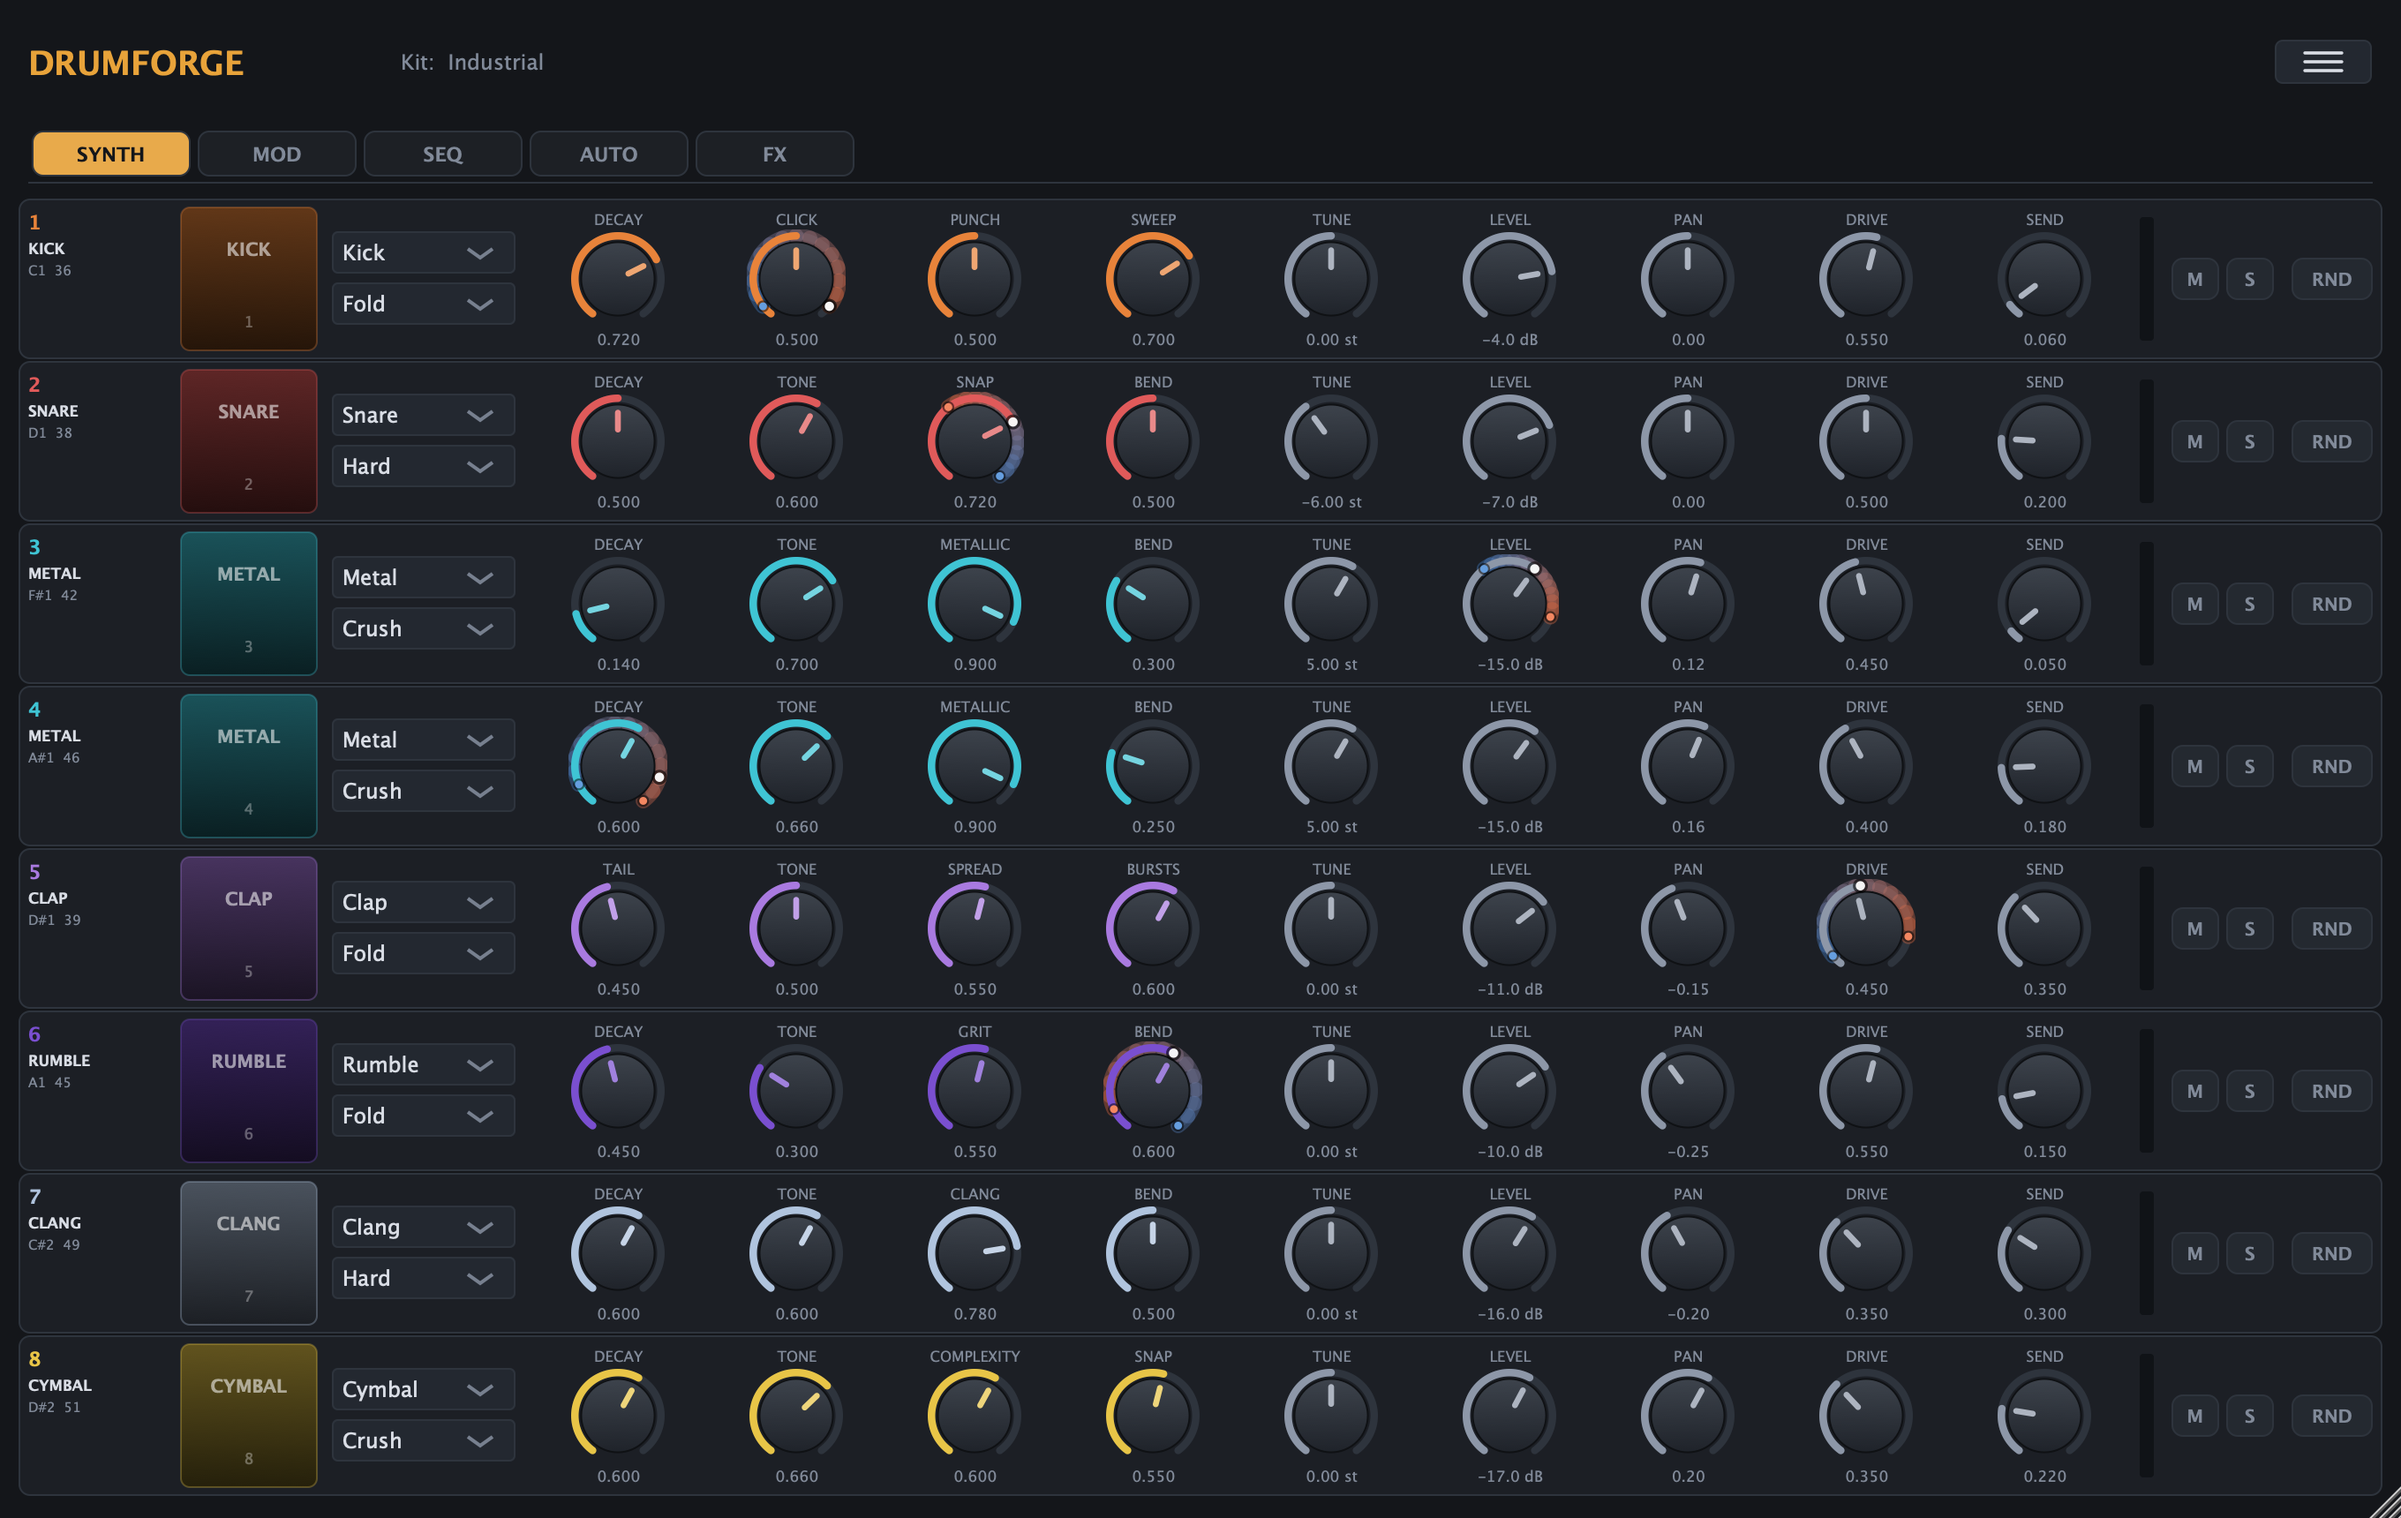
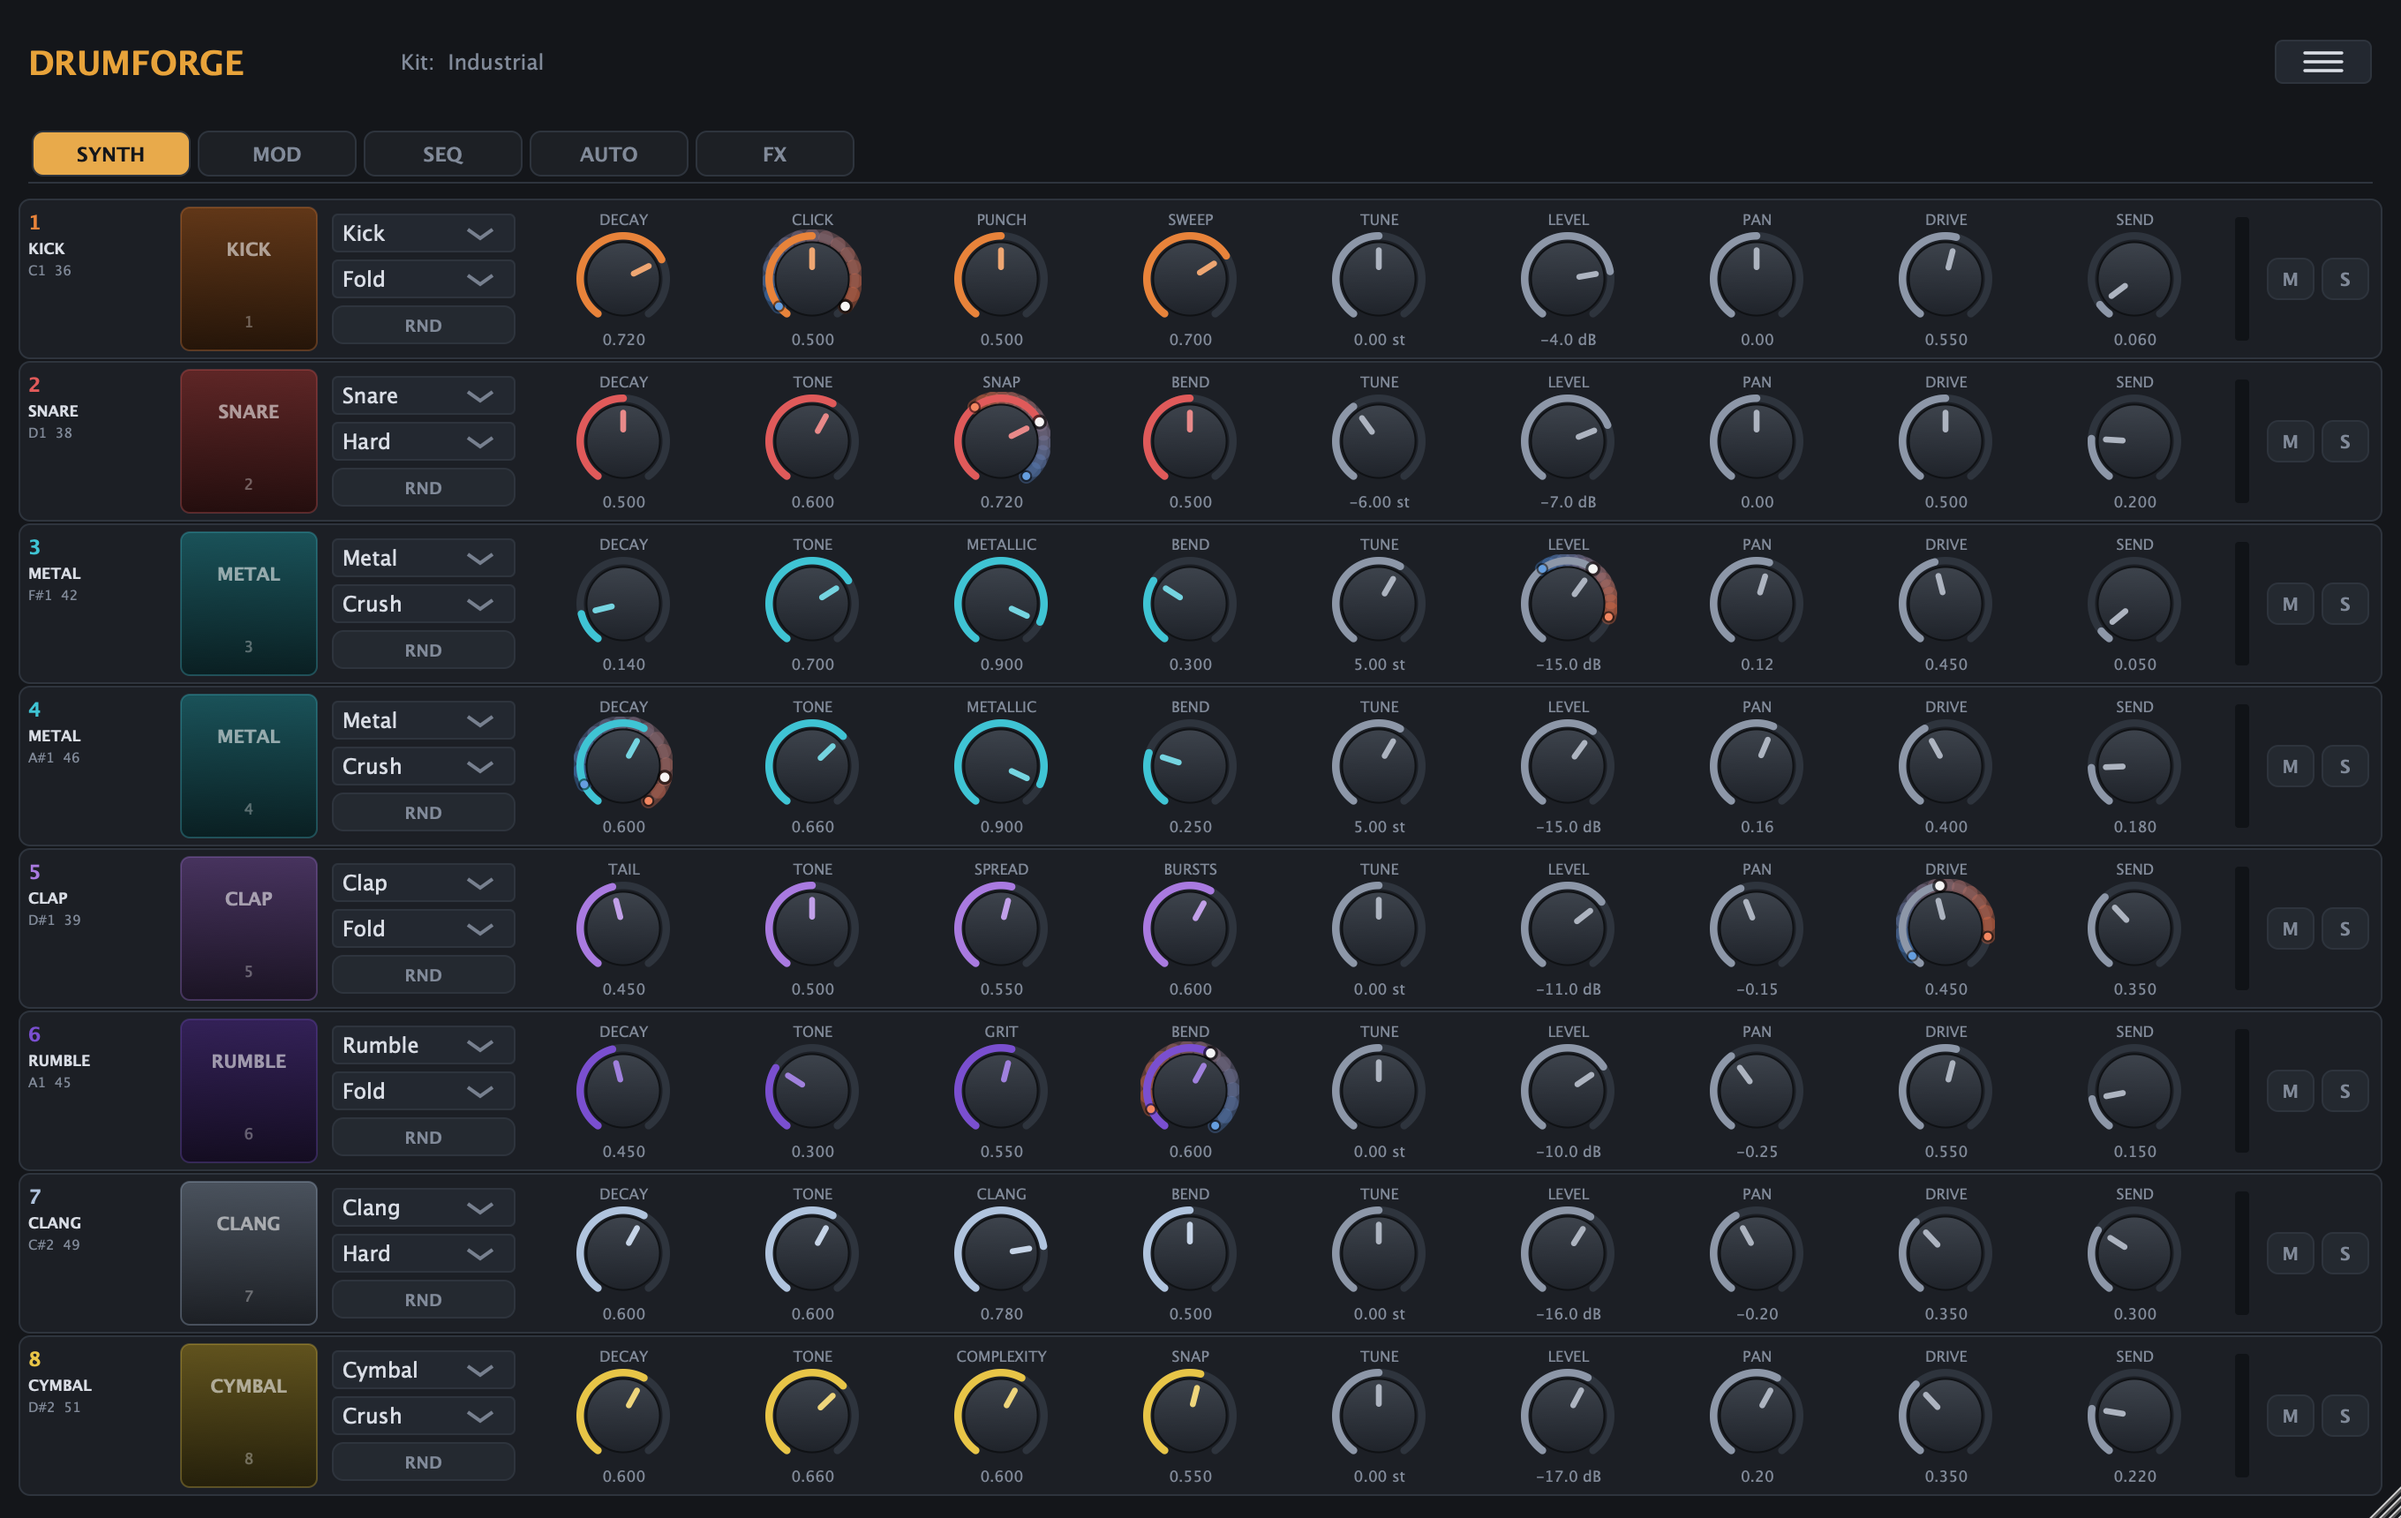
Fix the stepper's clipping, label the amount, align the tabs, move RND
The step count ran underneath the +/- buttons. The number was centred in the whole
area right of the caption, but the buttons are child components drawn on top of
it, so a two-digit value slid under them. Their width now comes out of the area
before the value is centred, which fixes it at any width and for any count.

The field beside an automation lane was an amount, and nothing said so. It has a
caption now.

The parameter tabs ran the full width of the row while the envelope they control
started further right, so the two did not read as one column. The tabs now take
the envelope's horizontal extent.

RND moved from the end of the SYNTH row to the column holding the engine and
distortion selectors. It rolls the machine those two choose, so it belongs with
them rather than a row's-width away.

491 checks.

diff --git a/Source/UI/SequencerLane.cpp b/Source/UI/SequencerLane.cpp
@@ -69,9 +69,13 @@ void ValueStepper::paint (juce::Graphics& g)
     g.drawText (caption, area.removeFromLeft (38).reduced (5, 0),
                 juce::Justification::centredLeft, false);
 
+    // The two buttons are children drawn on top, so their width has to come out of the area
+    // the number is centred in. Otherwise a three-digit count runs underneath them.
+    area.removeFromRight (2 * 18);
+
     g.setColour (theme::text);
     g.setFont (theme::font (11.0f, juce::Font::bold));
-    g.drawText (juce::String (value), area.reduced (2, 0), juce::Justification::centred, false);
+    g.drawText (juce::String (value), area, juce::Justification::centred, false);
 }
 
 //==============================================================================
@@ -402,7 +406,7 @@ AutomationLaneComponent::AutomationLaneComponent (DrumKitProcessor& owner, int i
         speedBox.addItem (laneSpeedName ((LaneSpeed) i), i + 1);
 
     amountSlider.setSliderStyle (juce::Slider::LinearBar);
-    amountSlider.setTextBoxStyle (juce::Slider::TextBoxAbove, false, 56, 14);
+    amountSlider.setTextBoxStyle (juce::Slider::TextBoxAbove, false, 56, 13);
     amountSlider.setRange (0.0, 100.0, 1.0);
     amountSlider.setTooltip ("How far the envelope moves the parameter.");
     amountSlider.addListener (this);
@@ -488,10 +492,10 @@ void AutomationLaneComponent::resized()
 {
     auto area = getLocalBounds().reduced (8, 4);
 
-    // The parameter tabs run the full width, so all nine are readable at once and it is
-    // obvious which parameters are being automated.
-    tabArea = area.removeFromTop (16);
-    area.removeFromTop (2);
+    // Reserve the strip's height here; its width is set at the end, once the envelope's
+    // column is known.
+    const int rowTop = area.getY();
+    area.removeFromTop (tabHeight + 2);
 
     headerArea = area.removeFromLeft (TrackHeader::identityWidth
                                         + juce::jmin (area.getHeight(), area.getWidth() / 5));
@@ -512,9 +516,18 @@ void AutomationLaneComponent::resized()
 
     area.removeFromLeft (10);
 
-    amountSlider.setBounds (area.removeFromRight (110).withSizeKeepingCentre (110, 20));
+    // The slider's own readout says 50, which means nothing without a caption; the caption
+    // sits in the strip above it.
+    auto amountArea = area.removeFromRight (110);
+    amountLabelArea = amountArea.removeFromTop (13).withTrimmedLeft (2);
+    amountSlider.setBounds (amountArea.removeFromTop (juce::jmin (32, amountArea.getHeight())));
 
     editorBounds = area.withTrimmedRight (10);
+
+    // The tabs line up with the envelope, not with the whole row, so the two read as one
+    // column instead of a bar that happens to be above it.
+    tabArea = juce::Rectangle<int> (editorBounds.getX(), rowTop,
+                                    editorBounds.getWidth(), tabHeight);
 }
 
 juce::Rectangle<int> AutomationLaneComponent::envelopeBounds() const noexcept
@@ -676,6 +689,10 @@ void AutomationLaneComponent::paint (juce::Graphics& g)
 
     if (editorBounds.isEmpty())
         return;
+
+    g.setColour (theme::textDim);
+    g.setFont (theme::font (9.0f));
+    g.drawText ("Amount", amountLabelArea, juce::Justification::centredLeft, false);
 
     const auto& current = lane();
 

diff --git a/Source/UI/TrackStrip.cpp b/Source/UI/TrackStrip.cpp
@@ -199,29 +199,26 @@ void TrackStrip::resized()
 {
     auto area = getLocalBounds().reduced (6, 5);
 
-    // Identity block: track number, engine name, note. Fixed width so every row lines up.
     // Identity and pad together, so every page shows the same block in the same place.
     const int headerWidth = TrackHeader::identityWidth
                               + juce::jmin (area.getHeight(), area.getWidth() / 4);
     headerArea = area.removeFromLeft (headerWidth);
     area.removeFromLeft (6);
 
-    // Engine and distortion, stacked in one column.
+    // Engine, distortion, then RND underneath them: the button rolls the machine these two
+    // select, so it belongs in that column rather than out at the end of the row.
     {
         auto combos = area.removeFromLeft (juce::jmin (104, area.getWidth() / 4));
-        const int stackHeight = juce::jmin (combos.getHeight(), 2 * rowControlHeight + 5);
-        auto stack = combos.withSizeKeepingCentre (combos.getWidth(), stackHeight);
+        const int cell = juce::jmin (22, (combos.getHeight() - 8) / 3);
+        auto stack = combos.withSizeKeepingCentre (combos.getWidth(), 3 * cell + 8);
 
-        comboArea = stack.removeFromTop (rowControlHeight);
-        stack.removeFromTop (5);
-        distArea = stack.removeFromTop (rowControlHeight);
+        comboArea = stack.removeFromTop (cell);
+        stack.removeFromTop (4);
+        distArea = stack.removeFromTop (cell);
+        stack.removeFromTop (4);
+        randomiseButton.setBounds (stack.removeFromTop (cell));
     }
     area.removeFromLeft (8);
-
-    // The right-hand controls are taken from the end, so the knobs absorb any slack.
-    randomiseButton.setBounds (area.removeFromRight (46)
-                                   .withSizeKeepingCentre (46, rowControlHeight));
-    area.removeFromRight (8);
 
     {
         const int buttonWidth = juce::jmin (62, juce::jmax (30, area.getWidth() / 5));
@@ -257,9 +254,6 @@ void TrackStrip::paint (juce::Graphics& g)
     // Unmistakable mode indicator: every row goes hot on the modulation page.
     g.setColour (modulationMode ? theme::velocityHard.withAlpha (0.8f) : theme::outline);
     g.drawRoundedRectangle (bounds, 6.0f, modulationMode ? 1.8f : 1.0f);
-
-    const int model = juce::jlimit (0, kNumModels - 1, displayedModel);
-    const auto& info = getModelInfo (model);
 
     // ---- Level meter ---------------------------------------------------------
     if (! meterArea.isEmpty())

diff --git a/Source/UI/SequencerLane.h b/Source/UI/SequencerLane.h
@@ -139,7 +139,9 @@ private:
     juce::Slider amountSlider;
 
     TrackHeader header;
-    juce::Rectangle<int> tabArea, headerArea, controlsArea, editorBounds;
+    juce::Rectangle<int> tabArea, headerArea, controlsArea, editorBounds, amountLabelArea;
+
+    static constexpr int tabHeight = 16;
 
     int draggedPoint = -1;
 
